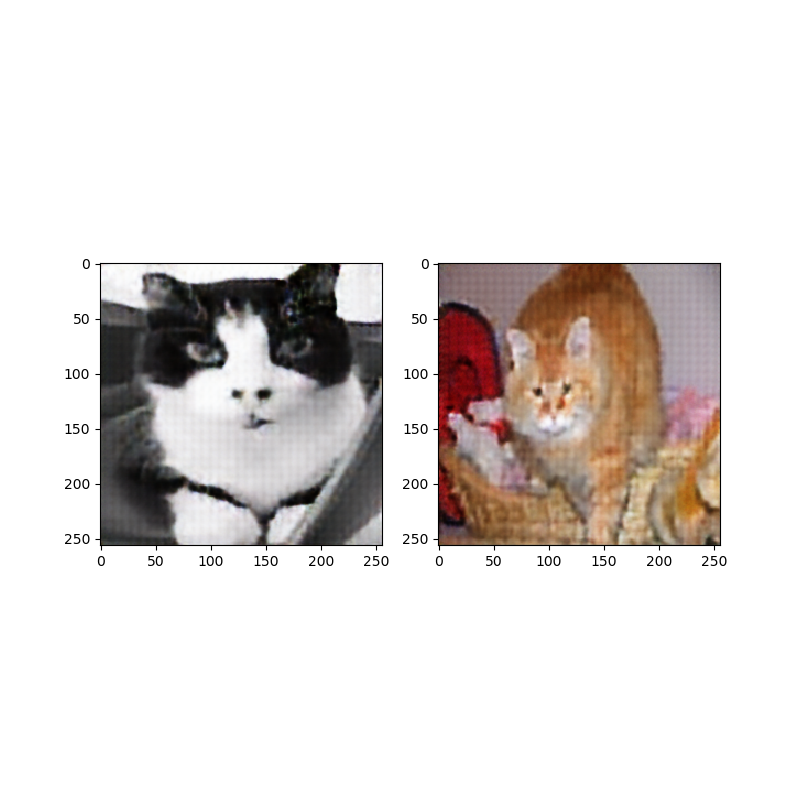
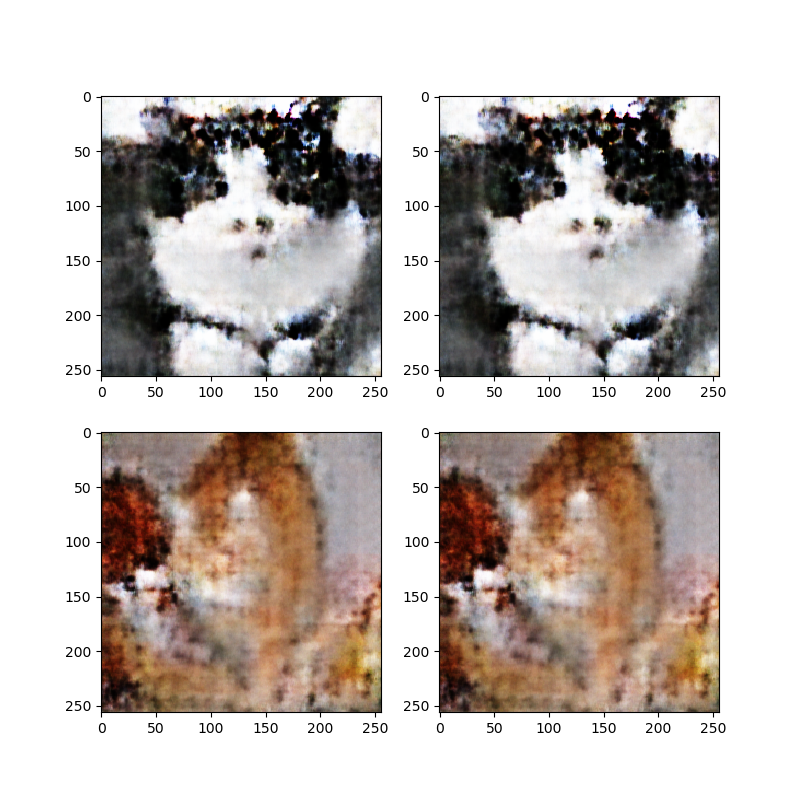
Tested Vectorization
Former-commit-id: 6e2d357a0662006b03f0116e5ac680fb3a526fec

diff --git a/autencoder_training.py b/autencoder_training.py
@@ -28,7 +28,6 @@ tf.compat.v1.keras.backend.set_session(tf.compat.v1.Session(config=config))
 import keras
 from matplotlib import pyplot as plt
 import numpy as np
-import gzip
 from keras.optimizers import RMSprop
 
 from keras.layers import Input, Dense, Conv2D, MaxPooling2D, UpSampling2D, Flatten, Reshape, Deconvolution2D, Conv2DTranspose, BatchNormalization
@@ -51,7 +50,7 @@ def ensureDirExists(file_path):
 
 
 #Activate/deactivate cnn training
-train = True
+train = False
 
 #enable/disable prediction
 predict = True
@@ -80,12 +79,12 @@ e = Conv2D(16, (3, 3), activation="relu", padding="same")(e)
 
 
 #-------------------------------point of densest information-------------------------------------
-#l = Flatten()(e)
-#l = Dense(4096, activation='softmax')(l)
+l = Flatten()(e)
+l = Dense(4096, activation='softmax')(l)
 
 #-----------------------------------------Deocder------------------------------------------------
 #################################################################################################
-#d = Reshape((16,16,16))(l)
+d = Reshape((16,16,16))(l)
 d = Conv2DTranspose(16,(3, 3), strides=2, activation='relu', padding='same')(e)
 d = BatchNormalization()(d)
 # d = Conv2DTranspose(16,(3, 3), strides=2, activation='relu', padding='same')(d)
@@ -138,7 +137,7 @@ def test_images():
     test_generator = test_datagen.flow_from_directory('dataset/test_set',
                                                      target_size = (256, 256),
                                                      color_mode='rgb',
-                                                     batch_size = 2,
+                                                     batch_size = 4,
                                                      shuffle= False
                                                      )
     x = test_generator
@@ -182,15 +181,17 @@ else:
     print("Loaded model from disk")
     autoencoder = loaded_model
     print("Checking loaded Model...")
+    autoencoder.compile(optimizer="adam", loss="mse")
+    evaluation = autoencoder.evaluate(x_test, x_test)
 
 if predict:
     prediction = autoencoder.predict(x_test, verbose=1)# you can now display an image to see it is reconstructed well
     predictions = []
     fig=plt.figure(figsize=(8, 8))
     col = 2
-    row = 1
+    row = 2
 
-    for i in range(2):
+    for i in range(4):
         x = prediction[i].reshape(256, 256, 3)
         predictions.append(x)
         fig.add_subplot(row, col, i+1)

diff --git a/vectorizing_test.py b/vectorizing_test.py
@@ -1,0 +1,9 @@
+from PIL import Image
+import os
+imageLoc = "dataset/test_set/cats/00001292_021.jpg"
+imageDest = "dataset/test_set/vector_cats/00001292_021.svg"
+im = Image.open("dataset/test_set/cats/00001292_021.jpg")
+im.show()
+data = list(im.getdata())
+os.system("convert " + imageLoc + " -flatten out.pgm")
+os.system("potrace out.pgm --svg -o " + imageDest)
